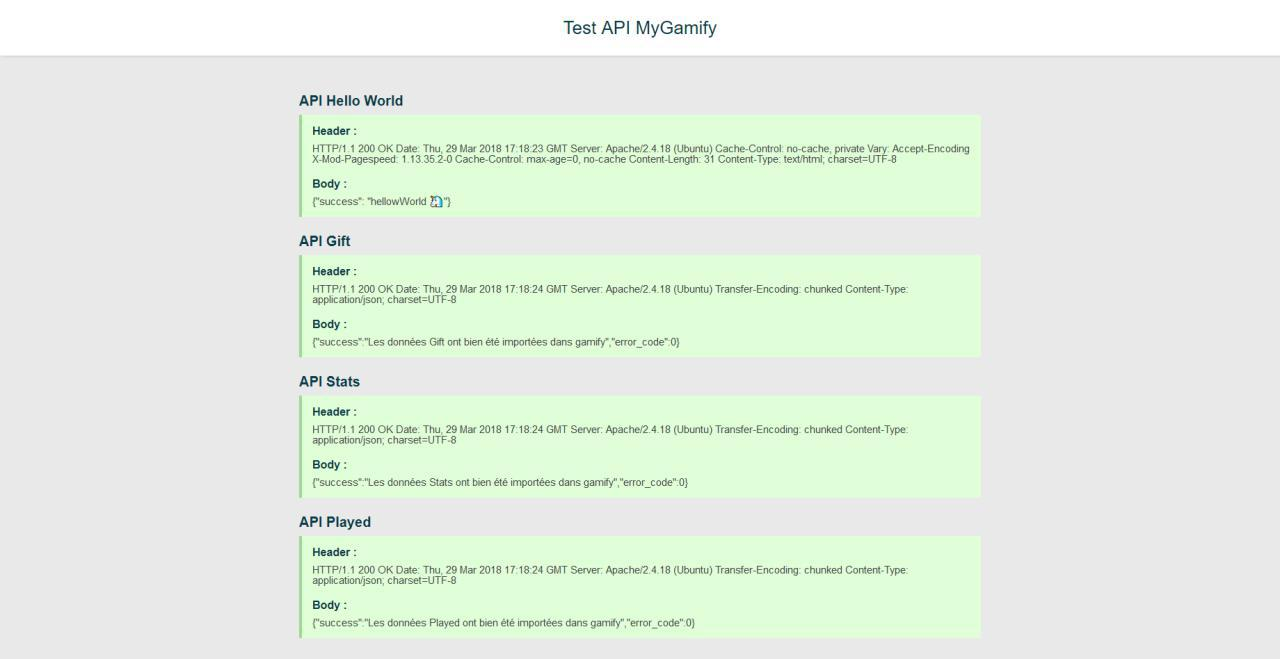
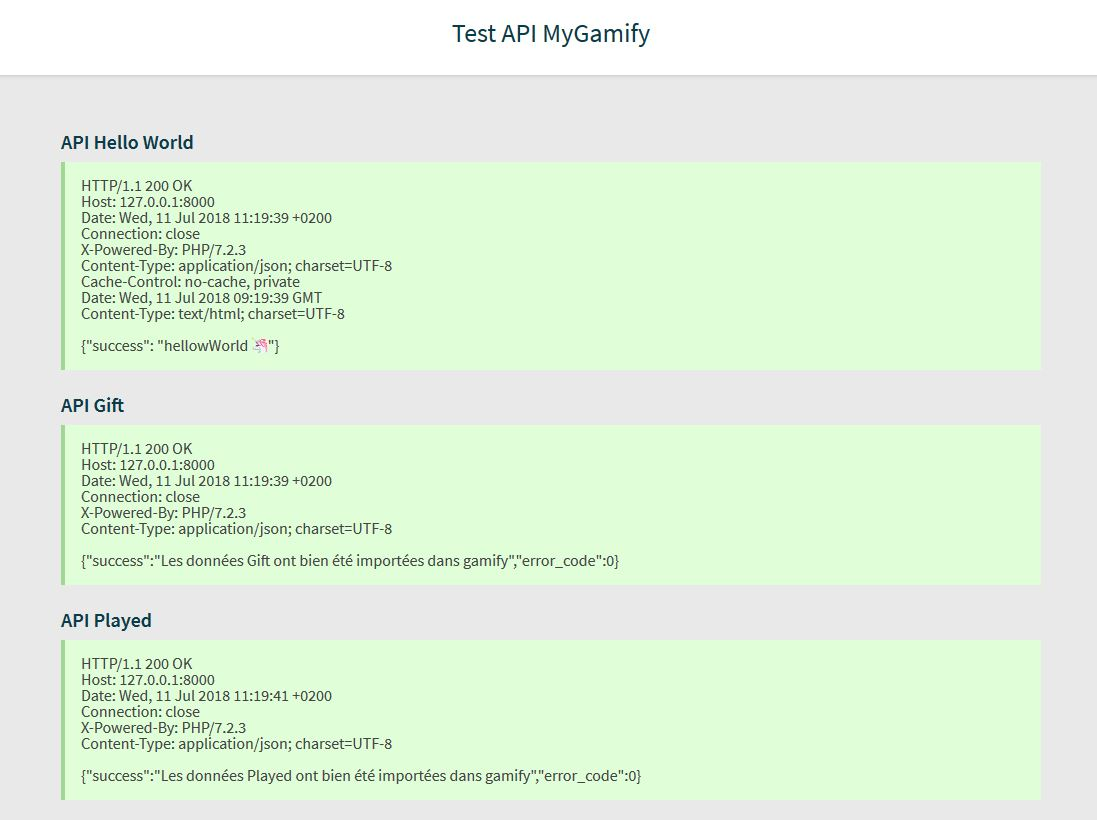
CORE api v3

diff --git a/apiDemo.php b/apiDemo.php
@@ -16,27 +16,6 @@
 	], $ssl );
 	diplayGamifyCallBack( $gamifyCallBack, displayFull );
 	echo "</div>";
-
-	echo "<div class='test-api'>";
-	echo "<h2>API Stats</h2>";
-	$gamifyCallBack = getCurlData( $apiUrl . "stats/" . idGame, [
-		[
-			"key" => 1, // (Int 11) identifiant unique de la donnée
-			"origine" => "audio", // (String 255) origine stats
-			"number_call" => 12, //  (Int 11) nombre d'appels
-			"number_unfactured_call" => 6, // (Int 11) temps cumulé des appels non facturés en ms
-			"number_sms" => 3, // (Int 11) nombre de sms
-			"calling_duration" => "80000", // (Int 11) temps cumulé des appels en ms
-			"calling_average" => "500", // (Int 11) temps moyen des appels en ms
-			"start_at" => "2017-05-12 00:00:00", // (Date time (0000-00-00 00:00:00) ) début de la tranche donnée
-			"end_at" => "2017-05-12 00:00:05"  // (Date time (0000-00-00 00:00:00) ) fin de la tranche donnée
-		],
-		[ "key" => 2, "origine" => "web", "number_call" => 12, "number_unfactured_call" => 6, "number_sms" => 3, "calling_duration" => "80000", "calling_average" => "500", "start_at" => "2017-05-12 00:00:00", "end_at" => "2017-05-12 00:00:05" ],
-		[ "key" => 3, "origine" => "sms", "number_call" => 12, "number_unfactured_call" => 6, "number_sms" => 3, "calling_duration" => "80000", "calling_average" => "500", "start_at" => "2017-05-12 00:00:00", "end_at" => "2017-05-12 00:00:05" ],
-	], $ssl );
-	diplayGamifyCallBack( $gamifyCallBack, displayFull );
-	echo "</div>";
-
 	echo "<div class='test-api'>";
 	echo "<h2>API Played</h2>";
 	$gamifyCallBack = getCurlData( $apiUrl . "played/" . idGame, [
@@ -56,11 +35,15 @@
 			"post_code" => "33000", // (String 255) code postal du participant
 			"city" => "Bordeaux", // (String 255) ville du participant
 			"country" => "France", // (String 255) pays du participant
-			"no_card" => "12345678", // (Int 11) numéros de carte
+			"no_card" => "12345678", // (String 255) numéros de carte
+			"number_sms" => null, // (Int 11) nombre de sms
+			"calling_duration" => 200, // (Int 11) durée d'appel en seconde
 			"optin" => 1 // (Bolean) optin oui/non
 		],
-		[ "key" => 2, "origine" => "web", "audio" => "https://www.url-audio", "participation_date" => "2017-05-12 00:00:00", "gift" => 2, "phone" => "33000000000", "phone_bis" => "33000000000", "email" => null, "last_name" => "Dhoe", "first_name" => "Jhon", "address" => "32 rue du mirail", "address_bis" => null, "post_code" => "33000", "city" => "Bordeaux", "country" => "France", "no_card" => "12345679", "optin" => 0 ],
-		[ "key" => 3, "origine" => "sms", "audio" => "https://www.url-audio", "participation_date" => "2017-05-12 00:00:00", "gift" => 3, "phone" => "33000000000", "phone_bis" => "33000000000", "email" => null, "last_name" => "Durant", "first_name" => "Arthur", "address" => "32 rue du mirail", "address_bis" => null, "post_code" => "33000", "city" => "Bordeaux", "country" => "France", "no_card" => "12345610", "optin" => 1 ]
+		[ "key" => 2, "origine" => "web", "audio" => "https://www.url-audio", "participation_date" => "2017-05-12 00:00:00", "gift" => 2, "phone" => "33000000000", "phone_bis" => "33000000000", "email" => null, "last_name" => "Dhoe", "first_name" => "Jhon", "address" => "32 rue du mirail", "address_bis" => null, "post_code" => "33000", "city" => "Bordeaux", "country" => "France", "no_card" => "12345679", "number_sms" => null,
+			"calling_duration" => null, "optin" => 0 ],
+		[ "key" => 3, "origine" => "sms", "audio" => "https://www.url-audio", "participation_date" => "2017-05-12 00:00:00", "gift" => 3, "phone" => "33000000000", "phone_bis" => "33000000000", "email" => null, "last_name" => "Durant", "first_name" => "Arthur", "address" => "32 rue du mirail", "address_bis" => null, "post_code" => "33000", "city" => "Bordeaux", "country" => "France", "no_card" => "12345610", "number_sms" => 4,
+			"calling_duration" => null, "optin" => 1 ]
 	], $ssl );
 	diplayGamifyCallBack( $gamifyCallBack, displayFull );
 	echo "</div>";

diff --git a/config.php b/config.php
@@ -3,29 +3,29 @@
 	define( "idGame", "{yourIdGame}" );
 
 	// Uncoment the mod you need
-	// define( "apiMod", "local" );
+	define( "apiMod", "local" );
 	// define( "apiMod", "dev" );
-	define( "apiMod", "prod" );
+	//define( "apiMod", "prod" );
 
 	/**
 	 * false: Display only the last http header & body response.  
 	 * true: Display all.  
 	 */
-	define( "displayFull", false );
+	define( "displayFull", true );
 
 	switch ( apiMod )
 	{
 		case 'local':
 			$ssl = false;
-			$apiUrl = "http://127.0.0.1:8000/apiV2/";
+			$apiUrl = "http://127.0.0.1:8000/apiV3/";
 			break;
 		case 'dev':
 			$ssl = true;
-			$apiUrl = "preprod.mygamify.fr/apiV2";
+			$apiUrl = "preprod.mygamify.fr/apiV3";
 			break;
 		default:
 			$ssl = true;
-			$apiUrl = "https://www.mygamify.fr/apiV2/";
+			$apiUrl = "https://www.mygamify.fr/apiV3/";
 			break;
 	}
 ?>
